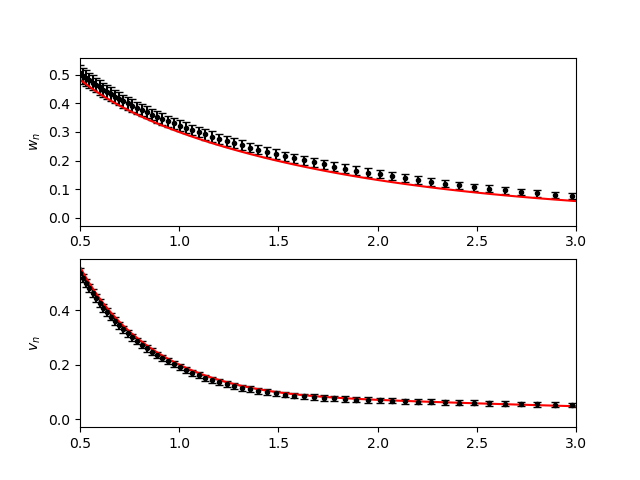
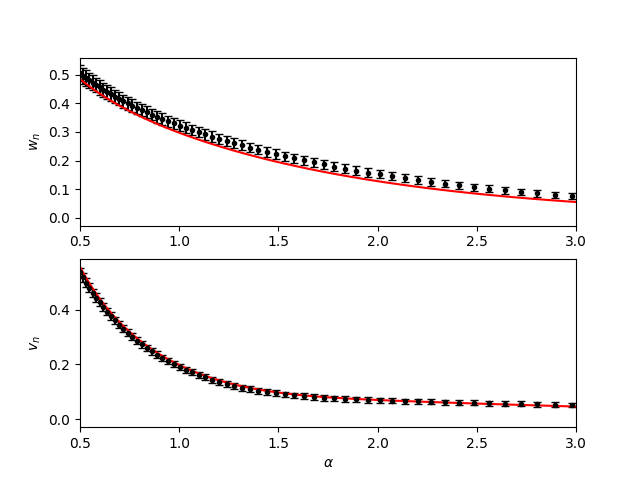
update

diff --git a/simple_sim_plots.py b/simple_sim_plots.py
@@ -43,7 +43,7 @@ ax2.errorbar(sim_df['alphas'],sim_df['v_mean'],yerr =sim_df['v_std'],fmt = 'k.',
 ax2.plot(rs_df['alphas'],rs_df['v'],'r-')
 ax2.set_ylabel(r'$v_n$')
 ax2.set_xlim(left = min(rs_df['alphas']), right = 3.0)
-# ax2.set_xlabel(r'$\alpha$')
+ax2.set_xlabel(r'$\alpha$')
 
 plt.savefig(directory+'simple_sim_v_and_w' + fmt +'method_'+method+'.png')
 
